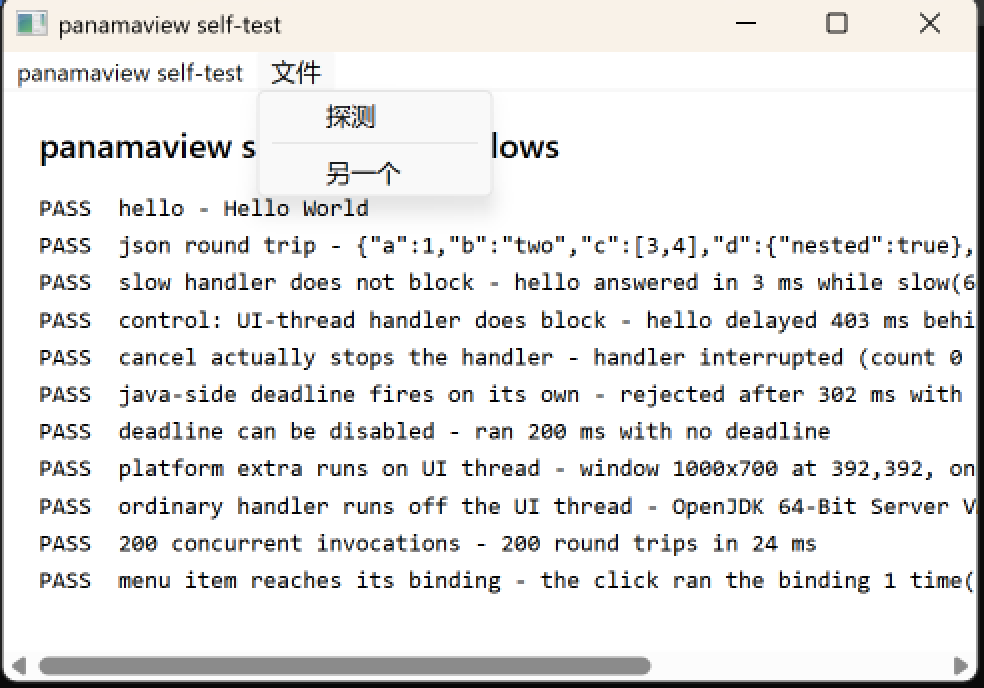
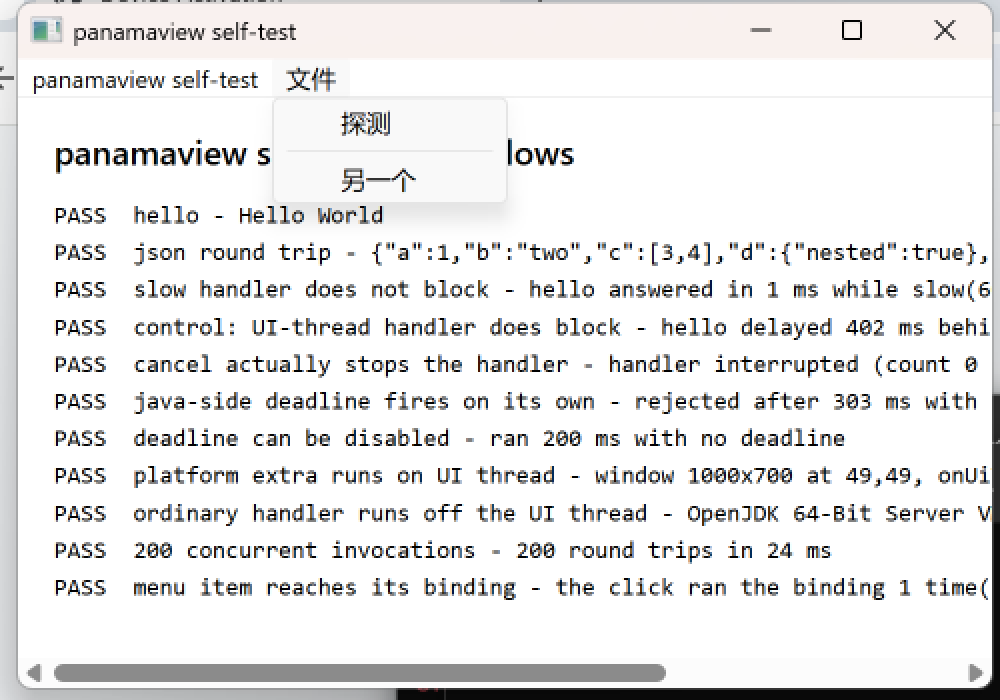
Make the self-test's own report match the run beside it
Five things, all of them about the self-test's report agreeing with the run it
describes.

The README's expected output was a run of its own, and the picture beside it was
another: the window's position is Windows' to choose, and it moved on every run
of that box. The block is now the run the picture came from, with the position
marked as varying and the two lines the code prints between the last PASS and
DONE added.

The check was called the tenth in one place and the eleventh in two. It is the
eleventh, and now it is the eleventh everywhere: the page's comments number the
eleven checks rather than the sections, so the control is 4 and the menu is 11,
and the bindings in the self-test follow the same numbering.

The reason the probe has its own user32 bindings was wrong. The framework's Win32
is package private in another package, so the probe could never have reached it
whatever it wanted; the real cost is a second set of bindings, and it is paid for
four call shapes that exist only to take one picture. The comment says that now,
and says why the four shapes are nested here rather than beside Native.java.

"Is the menu open" was decided by any window of the class every Win32 menu has,
which another application's open menu would satisfy -- and the picture would then
show a closed menu bar while the code said the menu was open. The popup's owner
is the answer now: a menu popup is owned by the window whose menu it is, so the
[…]

Changed region(s): [[0.0, 0.0, 1.0, 1.0], [0.4878, 0.1831, 0.5793, 0.2442]]

diff --git a/windows-probe/src/main/resources/selftest/selftest.js b/windows-probe/src/main/resources/selftest/selftest.js
@@ -63,7 +63,7 @@
       check("slow handler does not block", false, String(error.message));
     }
 
-    // 3b. The control. Same work, same duration, on the UI thread: it *should* delay.
+    // 4. The control. Same work, same duration, on the UI thread: it *should* delay.
     //     Without this, the check above could pass for reasons unrelated to scheduling.
     try {
       const blocking = java.invoke("slowUi", { ms: 400 });
@@ -77,7 +77,7 @@
       check("control: UI-thread handler does block", false, String(error.message));
     }
 
-    // 4. Cancellation, tested honestly: the promise rejecting locally proves nothing about
+    // 5. Cancellation, tested honestly: the promise rejecting locally proves nothing about
     //    Java. What has to be shown is that the handler was really stopped, so the handler
     //    counts its own interruptions and the page reads the counter back.
     try {
@@ -96,7 +96,7 @@
       check("cancel actually stops the handler", false, String(error.message));
     }
 
-    // 5. Java's own deadline, independent of the page's fuse. The page allows 10 s here and
+    // 6. Java's own deadline, independent of the page's fuse. The page allows 10 s here and
     //    the handler's deadline is 300 ms, so a ~300 ms rejection proves Java's timer fired.
     try {
       const started = performance.now();
@@ -114,7 +114,7 @@
       check("java-side deadline fires on its own", false, String(error.message));
     }
 
-    // 6. A binding with no deadline must still work.
+    // 7. A binding with no deadline must still work.
     try {
       const result = await java.invoke("unbounded", { ms: 200 });
       check("deadline can be disabled", /no deadline/.test(result), result);
@@ -122,7 +122,7 @@
       check("deadline can be disabled", false, String(error.message));
     }
 
-    // 7. The platform extra runs on the UI thread; ordinary handlers must not.
+    // 8. The platform extra runs on the UI thread; ordinary handlers must not.
     try {
       const info = await java.invoke("windowInfo", {});
       check("platform extra runs on UI thread", info.onUiThread === true,
@@ -131,7 +131,7 @@
       check("windowInfo", false, String(error.message));
     }
 
-    // 8. Runtime facts only Java can supply, including which thread answered.
+    // 9. Runtime facts only Java can supply, including which thread answered.
     try {
       const info = await java.invoke("runtime", {});
       check("ordinary handler runs off the UI thread",
@@ -141,7 +141,7 @@
       check("runtime", false, String(error.message));
     }
 
-    // 9. Two hundred replies, correlated by id rather than by arrival order.
+    // 10. Two hundred replies, correlated by id rather than by arrival order.
     try {
       const count = 200;
       const started = performance.now();
@@ -155,7 +155,7 @@
       check("200 concurrent invocations", false, String(error.message));
     }
 
-    // 10. A menu item, chosen.
+    // 11. A menu item, chosen.
     //
     // The check asserts the effect — that the click reached the binding — and not the
     // absence of an exception: a click that goes nowhere does not throw, it does nothing,

diff --git a/windows-probe/src/main/java/io/github/lihuu/panamaview/probe/WindowsSelfTest.java b/windows-probe/src/main/java/io/github/lihuu/panamaview/probe/WindowsSelfTest.java
@@ -22,6 +22,8 @@ import java.nio.charset.StandardCharsets;
 import java.time.Duration;
 import java.util.LinkedHashMap;
 import java.util.Map;
+import java.util.concurrent.CountDownLatch;
+import java.util.concurrent.TimeUnit;
 import java.util.concurrent.atomic.AtomicBoolean;
 import java.util.concurrent.atomic.AtomicInteger;
 
@@ -103,6 +105,16 @@ public final class WindowsSelfTest {
      */
     private static final long WATCHDOG_MILLIS = 60_000;
 
+    /**
+     * How long the exit thread waits for the picture before ending the process anyway.
+     *
+     * <p>Shorter than the watchdog's minute on purpose: when a verdict exists, the verdict's
+     * own code is the one that should end the process, and the watchdog's generic 1 is the
+     * answer for the case where there is no verdict at all. So the picture gets half a
+     * minute to arrive, and the verdict's code wins.
+     */
+    private static final long CAPTURE_GRACE_MILLIS = 30_000;
+
     /** The menu title the capture opens, so the picture shows the binding item in it. */
     private static final String MENU_TITLE = "文件";
 
@@ -151,7 +163,7 @@ public final class WindowsSelfTest {
                     return "slept " + millis + " ms";
                 })
 
-                // 3b. The control: the same work, on the UI thread, which *should* block.
+                // 4. The control: the same work, on the UI thread, which *should* block.
                 // Without this, check 3 could pass for reasons that have nothing to do with
                 // scheduling. Same work, same duration, different thread.
                 .bindUi("slowUi", params -> {
@@ -160,21 +172,7 @@ public final class WindowsSelfTest {
                     return "slept " + millis + " ms on the UI thread";
                 })
 
-                // 4. A deliberately short deadline, to prove the Java-side timer fires on its
-                // own — without relying on the page's own fuse, which is much longer.
-                .bind("deadlineProbe", params -> {
-                    Thread.sleep(5000);
-                    return "should never be reached: the deadline is 300 ms";
-                }, Duration.ofMillis(300))
-
-                // 5. No deadline at all: the escape hatch for honestly unbounded work.
-                .bind("unbounded", params -> {
-                    long millis = ((Number) params.getOrDefault("ms", 50)).longValue();
-                    Thread.sleep(millis);
-                    return "ran " + millis + " ms with no deadline";
-                }, null)
-
-                // 6. Sleeps, and records whether it was interrupted doing so.
+                // 5. Sleeps, and records whether it was interrupted doing so.
                 .bind("interruptible", params -> {
                     try {
                         Thread.sleep(((Number) params.getOrDefault("ms", 5000)).longValue());
@@ -186,19 +184,33 @@ public final class WindowsSelfTest {
                 })
                 .bind("interrupts", params -> INTERRUPTS.get())
 
-                // 7. The platform extra. bindUi, because it asks the window a question and
+                // 6. A deliberately short deadline, to prove the Java-side timer fires on its
+                // own — without relying on the page's own fuse, which is much longer.
+                .bind("deadlineProbe", params -> {
+                    Thread.sleep(5000);
+                    return "should never be reached: the deadline is 300 ms";
+                }, Duration.ofMillis(300))
+
+                // 7. No deadline at all: the escape hatch for honestly unbounded work.
+                .bind("unbounded", params -> {
+                    long millis = ((Number) params.getOrDefault("ms", 50)).longValue();
+                    Thread.sleep(millis);
+                    return "ran " + millis + " ms with no deadline";
+                }, null)
+
+                // 8. The platform extra. bindUi, because it asks the window a question and
                 // window questions are only legal on the UI thread.
                 .bindUi("windowInfo", params -> Map.of(
                         "window", host.windowRectangle(),
                         "onUiThread", host.isUiThread()))
 
-                // 8. Runtime facts only Java can supply, including which thread answered.
+                // 9. Runtime facts only Java can supply, including which thread answered.
                 .bind("runtime", params -> runtime())
 
-                // 9. The menu's two bindings, which the page's tenth check uses. The first is
-                // the item the platform dispatches to when the native menu is chosen, and the
-                // counter it moves is the effect the check asserts; the second is the click
-                // that chooses it.
+                // 11. The menu's two bindings, and the eleventh check with them. The first
+                // is the item the platform dispatches to when the native menu is chosen, and
+                // the counter it moves is the effect the check asserts; the second is the
+                // click that chooses it.
                 .bind("menuProbe", params -> PROBE_COUNT.incrementAndGet())
                 .bind("menuProbe2", params -> PROBE_COUNT_2.incrementAndGet())
 
@@ -222,7 +234,7 @@ public final class WindowsSelfTest {
                     return PROBE_COUNT.get();
                 })
 
-                // 10. The verdict goes here, so it lands in stdout where a machine can read it.
+                // The verdict goes here, so it lands in stdout where a machine can read it.
                 .bind("report", params -> {
                     int passed = ((Number) params.getOrDefault("passed", 0)).intValue();
                     int failed = ((Number) params.getOrDefault("failed", 0)).intValue();
@@ -236,24 +248,39 @@ public final class WindowsSelfTest {
                             }
                         }
                     }
-                    // The verdict is in; the watchdog has nothing left to watch for.
-                    REPORTED.set(true);
-                    // The picture: the menu bar is the one thing the log cannot show, so the
-                    // capture happens here, where the window is known to be up and the timing
-                    // stops being a race.
-                    capture();
-                    System.out.println("[selftest] DONE");
-                    // The window stays up a moment longer, so a person watching the screen can
-                    // see what the run did: the verdict is in this log, and the page on the
-                    // screen says the same thing.
+                    // The thread that carries the verdict's exit code starts *before* the
+                    // picture, not after it. A capture can hang — Robot on a locked desktop,
+                    // a display driver that stops answering — and a capture that hangs after
+                    // the exit code's thread has been started still ends the process, with
+                    // the verdict's own code. Starting it afterwards would leave a hung
+                    // capture holding a process with no exit code at all, and only the
+                    // runner's own timeout would end it.
+                    CountDownLatch captured = new CountDownLatch(1);
                     new Thread(() -> {
+                        // The window stays up a moment longer, so a person watching the screen
+                        // can see what the run did: the verdict is in this log, and the page
+                        // on the screen says the same thing.
                         try {
+                            captured.await(CAPTURE_GRACE_MILLIS, TimeUnit.MILLISECONDS);
                             Thread.sleep(8000);
                         } catch (InterruptedException ignored) {
                             // exiting anyway
                         }
                         System.exit(failed == 0 ? 0 : 1);
                     }, "selftest-exit").start();
+                    // The picture: the menu bar is the one thing the log cannot show, so the
+                    // capture happens here, where the window is known to be up and the timing
+                    // stops being a race.
+                    try {
+                        capture();
+                    } finally {
+                        captured.countDown();
+                    }
+                    // The watchdog is disarmed only now, after the picture: it is the thing
+                    // that says "the page never reported", and the picture is the last thing
+                    // that can go wrong before the verdict's own exit code is delivered.
+                    REPORTED.set(true);
+                    System.out.println("[selftest] DONE");
                     return "ok";
                 });
 
@@ -278,6 +305,11 @@ public final class WindowsSelfTest {
      *
      * <p>The thread is deliberately not a daemon: when the host fails, {@code app.run()}
      * returns and the JVM would exit 0 on its own, before the watchdog ever got to speak.
+     *
+     * <p>It is disarmed when the picture has been taken, and not when the verdict was
+     * printed, because the picture is the last thing that can go wrong: a capture that hangs
+     * has the exit thread to end the process, and the watchdog is the backstop for the case
+     * where the page itself never reported.
      */
     private static void startWatchdog() {
         Thread watchdog = new Thread(() -> {
@@ -341,8 +373,9 @@ public final class WindowsSelfTest {
      *
      * <p>Two clicks at most: the first click on a window that is not in the foreground
      * activates it, and a click that only activates is a click that has not opened the menu
-     * yet. Whether the menu opened is asked of Windows rather than guessed: an open menu is
-     * a window of its own, and that window is found by its class.
+     * yet. Whether the menu opened is asked of Windows rather than guessed, and the answer
+     * has to be about <em>this</em> window's menu: an open menu is a window of its own, and
+     * the one that is open has to belong to the window being photographed.
      */
     private static void openMenu() {
         try {
@@ -374,7 +407,7 @@ public final class WindowsSelfTest {
                 // land half a screen away from the item.
                 Win32Menu.clickAt(item.x + item.width / 2, item.y + item.height / 2);
                 Thread.sleep(600);
-                if (Win32Menu.menuIsOpen()) {
+                if (Win32Menu.menuIsOpen(window)) {
                     return;
                 }
             }
@@ -400,9 +433,18 @@ public final class WindowsSelfTest {
     /**
      * The few Win32 calls the screenshot needs.
      *
-     * <p>This is the probe's own Win32 and not the framework's: the framework's is package
-     * private on purpose, and a test that reached into the thing it is checking would be
-     * checking itself.
+     * <p>These are the probe's own bindings, and the reason is not that the framework's
+     * would be wrong. The framework's {@code Win32} is package private in
+     * {@code io.github.lihuu.panamaview.windows}, so the probe could not have reached it
+     * whatever it wanted; the real cost of the probe's own layer is a second set of
+     * {@code user32} bindings — {@code GetMenuStringW} and {@code GetMenuItemCount} already
+     * exist in the framework's — and it is paid for four call shapes that exist only to take
+     * one picture.
+     *
+     * <p>They are nested here rather than sitting beside {@code Native.java}, which is the
+     * probe's other FFI layer, because these four shapes are the screenshot's own business
+     * and no other class in the probe could use them: a sibling file would read as another
+     * layer the probe shares, which this is not.
      */
     private static final class Win32Menu {
 
@@ -417,6 +459,9 @@ public final class WindowsSelfTest {
         /** The window class every Win32 menu popup has. */
         private static final String MENU_WINDOW_CLASS = "#32768";
 
+        /** {@code GW_OWNER} — the window that owns another one. */
+        private static final int GW_OWNER = 4;
+
         private static final Linker LINKER = Linker.nativeLinker();
         private static final SymbolLookup USER32 = SymbolLookup.libraryLookup("user32.dll", Arena.global());
 
@@ -430,6 +475,8 @@ public final class WindowsSelfTest {
                 FunctionDescriptor.of(JAVA_INT, ADDRESS, ADDRESS, JAVA_INT, ADDRESS));
         private static final MethodHandle GET_MENU_STRING = bind("GetMenuStringW",
                 FunctionDescriptor.of(JAVA_INT, ADDRESS, JAVA_INT, ADDRESS, JAVA_INT, JAVA_INT));
+        private static final MethodHandle GET_WINDOW = bind("GetWindow",
+                FunctionDescriptor.of(ADDRESS, ADDRESS, JAVA_INT));
         private static final MethodHandle SET_CURSOR_POS = bind("SetCursorPos",
                 FunctionDescriptor.of(JAVA_INT, JAVA_INT, JAVA_INT));
         private static final MethodHandle MOUSE_EVENT = bind("mouse_event",
@@ -527,12 +574,39 @@ public final class WindowsSelfTest {
             }
         }
 
-        /** Whether a menu is open right now: an open menu is a window of its own. */
-        static boolean menuIsOpen() {
+        /**
+         * Whether this window's menu is open right now.
+         *
+         * <p>An open menu is a window of its own, of the class every Win32 menu has — but
+         * the question is not whether such a window exists on the desktop, it is whether
+         * <em>this</em> window's menu is the one that is open. Another application's open
+         * menu would satisfy the first question and leave the second one unanswered, and
+         * the picture would then show a closed menu bar while the code said the menu was
+         * open: the failure the picture exists to rule out.
+         *
+         * <p>The owner is what tells them apart. A menu popup is owned by the window whose
+         * menu it is, so the owner is the answer.
+         */
+        static boolean menuIsOpen(MemorySegment window) {
             try (Arena scope = Arena.ofConfined()) {
                 MemorySegment name = scope.allocateFrom(MENU_WINDOW_CLASS, StandardCharsets.UTF_16LE);
-                MemorySegment found = (MemorySegment) FIND_WINDOW.invoke(name, MemorySegment.NULL);
-                return !found.equals(MemorySegment.NULL);
+                MemorySegment popup = (MemorySegment) FIND_WINDOW.invoke(name, MemorySegment.NULL);
+                if (popup.equals(MemorySegment.NULL)) {
+                    return false;
+                }
+                MemorySegment owner = (MemorySegment) GET_WINDOW.invoke(popup, GW_OWNER);
+                if (owner.equals(MemorySegment.NULL)) {
+                    return false;
+                }
+                if (owner.address() != window.address()) {
+                    // Said, because the picture's whole job is to show this menu, and a
+                    // menu that belongs to another window is worth knowing about.
+                    System.err.println("[selftest] the screenshot: a menu is open, but it belongs"
+                            + " to another window (owner 0x" + Long.toHexString(owner.address())
+                            + ")");
+                    return false;
+                }
+                return true;
             } catch (Throwable t) {
                 return false;
             }

diff --git a/windows-probe/README.md b/windows-probe/README.md
@@ -69,14 +69,22 @@ Expected output ends:
 [selftest]   PASS  slow handler does not block - hello answered in 1 ms while slow(600 ms) was in flight
 [selftest]   PASS  control: UI-thread handler does block - hello delayed 402 ms behind slowUi(400 ms)
 [selftest]   PASS  cancel actually stops the handler - handler interrupted (count 0 -> 1); page stopped waiting in 0 ms
-[selftest]   PASS  java-side deadline fires on its own - rejected after 302 ms with "no answer within 300 ms"
+[selftest]   PASS  java-side deadline fires on its own - rejected after 303 ms with "no answer within 300 ms"
 [selftest]   PASS  deadline can be disabled - ran 200 ms with no deadline
-[selftest]   PASS  platform extra runs on UI thread - window 1000x700 at 294,294, onUiThread=true
+[selftest]   PASS  platform extra runs on UI thread - window 1000x700 at 49,49, onUiThread=true
 [selftest]   PASS  ordinary handler runs off the UI thread - OpenJDK 64-Bit Server VM, handler on VirtualThread
 [selftest]   PASS  200 concurrent invocations - 200 round trips in 24 ms
 [selftest]   PASS  menu item reaches its binding - the click ran the binding 1 time(s)
+[selftest] the screenshot: the menu item '文件' is at 316,107 78x38
+[selftest] the screenshot is at selftest-window.png (1920x1080)
 [selftest] DONE
 ```
+
+That block is one run — the run the screenshot beside it came from. Two of its numbers are
+Windows' to choose rather than the test's: the window's **position**, which `CW_USEDEFAULT`
+places where it likes and which moved on every run of that box (49,49 / 98,98 / 196,196 /
+294,294 / 392,392), and the milliseconds, which are the machine's. The verdict is the same
+either way: eleven passed, none failed, and the exit code 0.
 
 The two lines worth reading together are the slow-handler pair. The same work, the same
 duration, on two different threads: **1 ms** on a virtual thread, **402 ms** on the UI thread.
